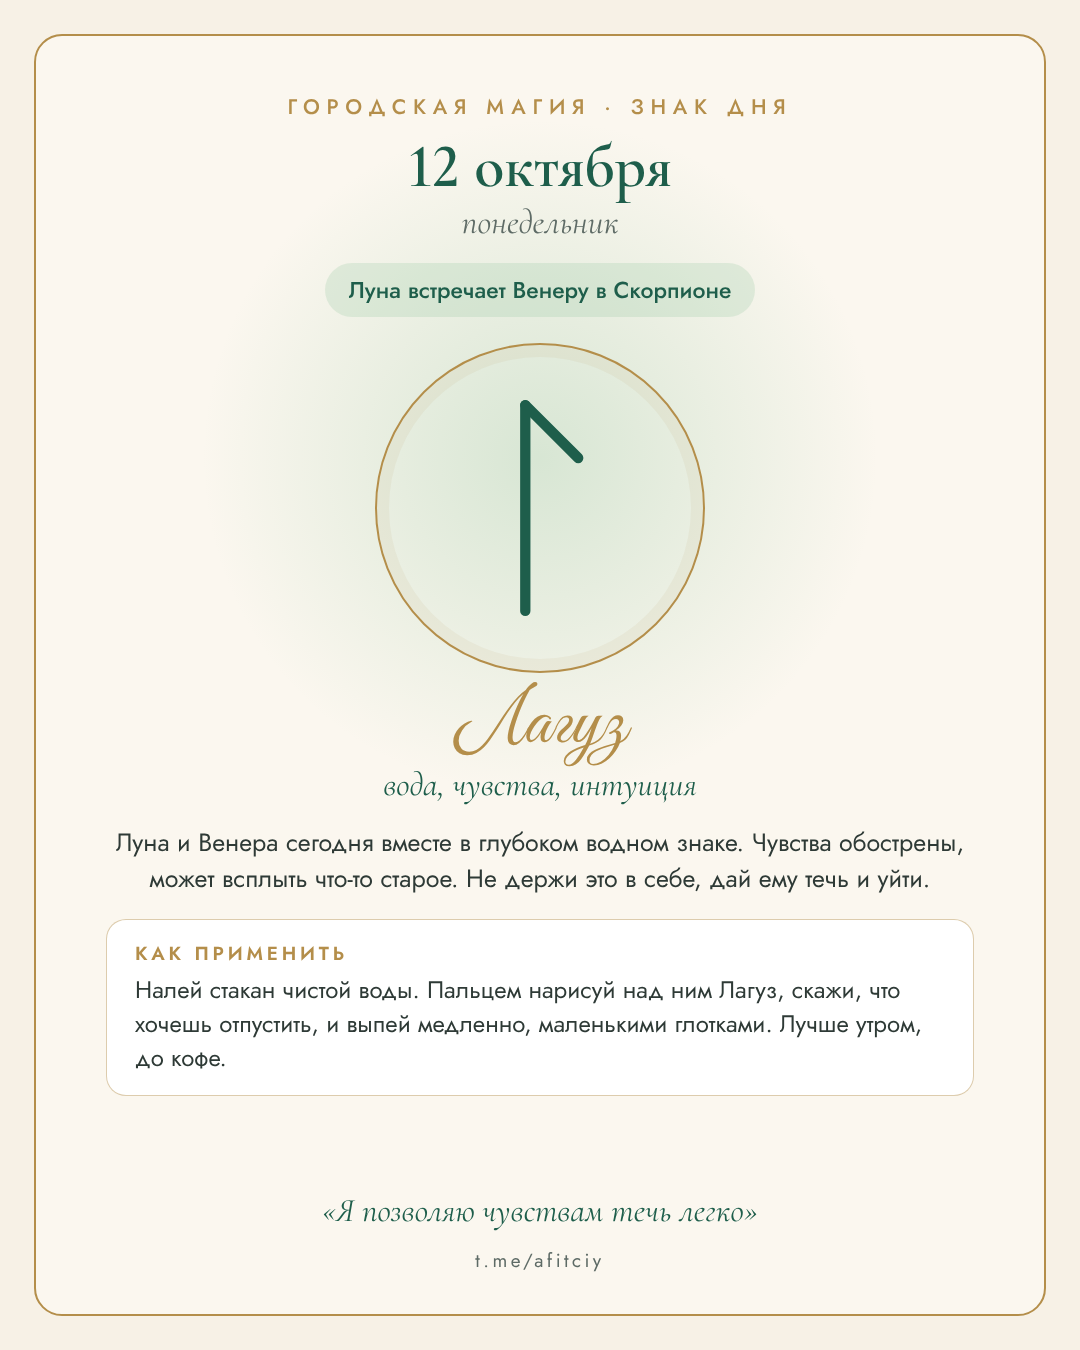
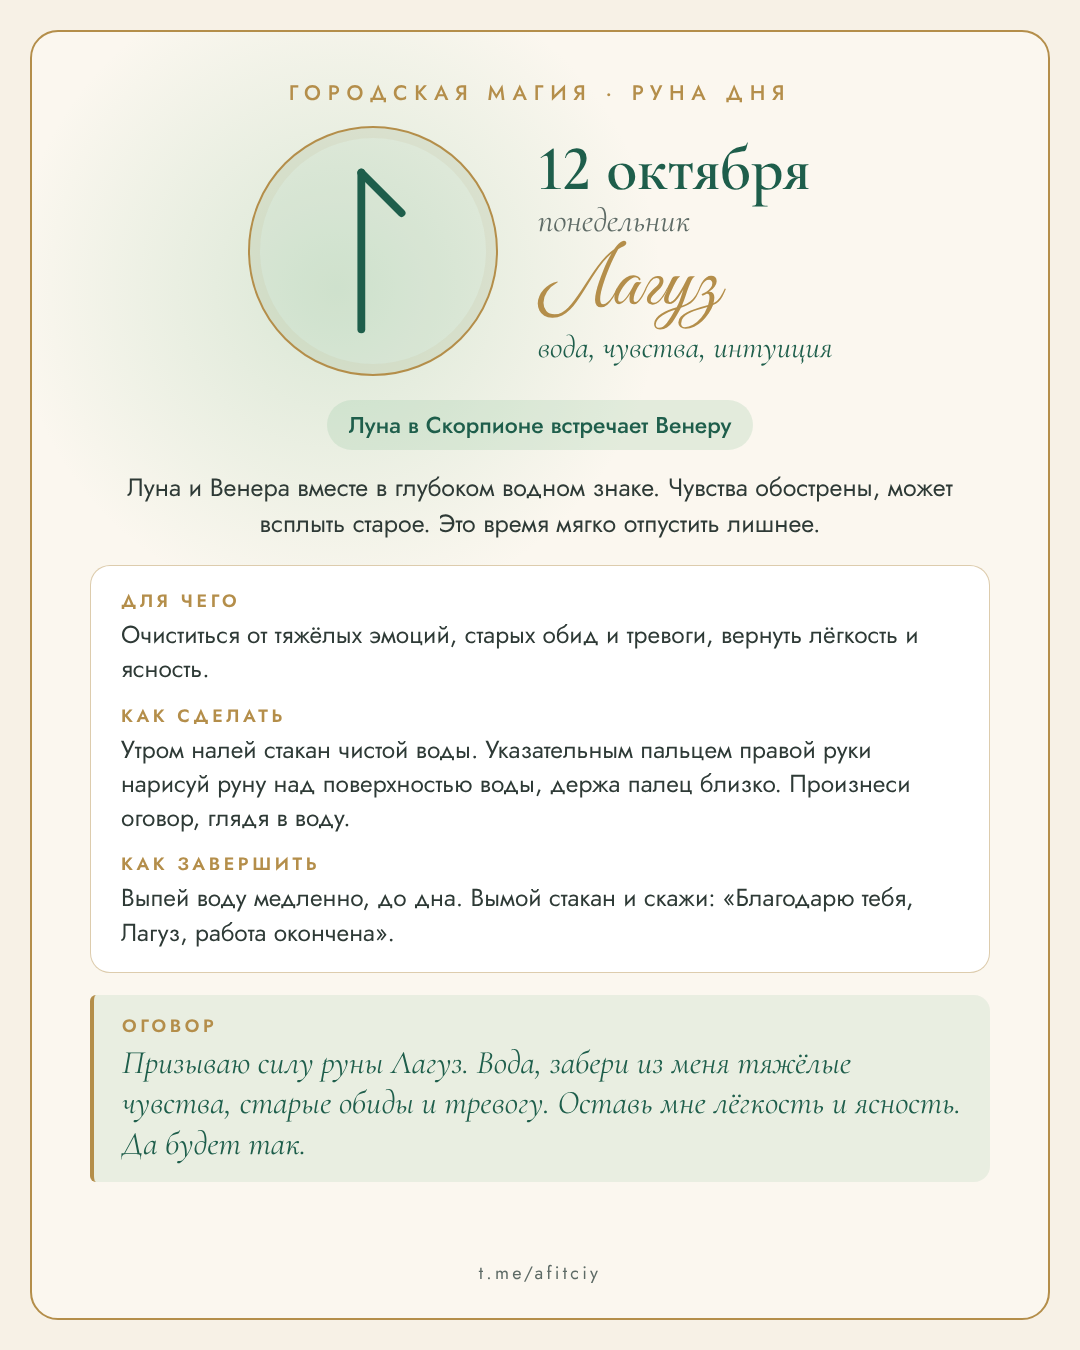
Руна дня: каждая карточка как мини-ритуал с оговором и завершением
Claude-Session: https://claude.ai/code/session_01CEseLf1VpQs1XHdpYd9CJA

diff --git a/daily/render.py b/daily/render.py
@@ -38,37 +38,42 @@ CSS = f"""
 :root{{--cream:#F7F1E6;--paper:#FBF7EF;--em:#1E5E4B;--gold:#B48E4A;--fresh:#8CC29A;--ink:#2E3A36;--muted:#5E6B66}}
 *{{margin:0;padding:0;box-sizing:border-box}}
 body{{font-variant-numeric:lining-nums;width:1080px;height:1350px;background:var(--cream);font-family:Jost;color:var(--ink);overflow:hidden}}
-.card{{position:absolute;inset:34px;border:2px solid var(--gold);border-radius:28px;background:
- radial-gradient(circle at 50% 33%, rgba(140,194,154,.32) 0, rgba(140,194,154,0) 34%), var(--paper);
- padding:56px 70px 40px;display:flex;flex-direction:column;align-items:center;text-align:center}}
+.card{{position:absolute;inset:30px;border:2px solid var(--gold);border-radius:28px;background:
+ radial-gradient(circle at 30% 20%, rgba(140,194,154,.30) 0, rgba(140,194,154,0) 26%), var(--paper);
+ padding:46px 58px 32px;display:flex;flex-direction:column;align-items:center;text-align:center}}
 .top{{font-size:21px;letter-spacing:.32em;color:var(--gold);font-weight:500}}
-.date{{font-family:Cor;font-weight:600;font-size:62px;color:var(--em);margin-top:14px;line-height:1}}
-.wd{{font-family:Cor;font-style:italic;font-size:34px;color:var(--muted);margin-top:4px}}
-.sky{{margin-top:20px;font-size:23px;color:var(--em);background:rgba(140,194,154,.22);padding:10px 24px;border-radius:40px;font-weight:500}}
-.ring{{margin-top:26px;width:330px;height:330px;border-radius:50%;border:2px solid var(--gold);display:flex;align-items:center;justify-content:center;
- box-shadow:0 0 0 12px rgba(180,142,74,.08) inset}}
-.name{{font-family:GV;font-size:76px;color:var(--gold);line-height:1;margin-top:14px}}
-.mean{{font-family:Cor;font-style:italic;font-size:33px;color:var(--em);margin-top:2px}}
-.txt{{font-size:25px;line-height:1.45;color:var(--ink);margin-top:20px;max-width:880px}}
-.how{{margin-top:22px;width:100%;text-align:left;background:#fff;border:1.5px solid rgba(180,142,74,.45);border-radius:20px;padding:20px 28px}}
-.how b{{display:block;font-size:19px;letter-spacing:.2em;color:var(--gold);font-weight:600;margin-bottom:6px}}
-.how p{{font-size:24px;line-height:1.42}}
-.ph{{font-family:Cor;font-style:italic;font-size:33px;color:var(--em);margin-top:auto;line-height:1.2}}
-.ft{{margin-top:16px;font-size:19px;letter-spacing:.18em;color:var(--muted)}}
+.head{{display:flex;align-items:center;gap:40px;margin-top:18px;width:100%;justify-content:center}}
+.ring{{width:250px;height:250px;flex:none;border-radius:50%;border:2px solid var(--gold);display:flex;align-items:center;justify-content:center;
+ box-shadow:0 0 0 10px rgba(180,142,74,.08) inset;background:rgba(140,194,154,.14)}}
+.hl{{text-align:left}}
+.date{{font-family:Cor;font-weight:600;font-size:64px;color:var(--em);line-height:1}}
+.wd{{font-family:Cor;font-style:italic;font-size:33px;color:var(--muted)}}
+.name{{font-family:GV;font-size:80px;color:var(--gold);line-height:1.05;margin-top:4px}}
+.mean{{font-family:Cor;font-style:italic;font-size:31px;color:var(--em)}}
+.sky{{margin-top:24px;font-size:23px;color:var(--em);background:rgba(140,194,154,.22);padding:8px 22px;border-radius:40px;font-weight:500}}
+.txt{{font-size:25px;line-height:1.42;margin-top:20px;max-width:900px}}
+.box{{margin-top:24px;width:100%;text-align:left;background:#fff;border:1.5px solid rgba(180,142,74,.45);border-radius:20px;padding:22px 30px}}
+.box b{{display:block;font-size:18px;letter-spacing:.2em;color:var(--gold);font-weight:600;margin:16px 0 4px}}
+.box b:first-child{{margin-top:0}}
+.box p{{font-size:24.5px;line-height:1.4}}
+.og{{margin-top:22px;width:100%;border-left:4px solid var(--gold);background:rgba(140,194,154,.16);border-radius:6px 16px 16px 6px;padding:18px 28px;text-align:left}}
+.og b{{display:block;font-size:18px;letter-spacing:.2em;color:var(--gold);font-weight:600;margin-bottom:4px}}
+.og p{{font-family:Cor;font-style:italic;font-size:33px;line-height:1.22;color:var(--em)}}
+.ft{{margin-top:auto;padding-top:10px;font-size:18px;letter-spacing:.18em;color:var(--muted)}}
 """
 
 def page(d):
     date = dt.date.fromisoformat(d["date"])
     e = html.escape
     return f"""<!doctype html><html><head><meta charset="utf-8"><style>{CSS}</style></head><body><div class="card">
-<div class="top">ГОРОДСКАЯ МАГИЯ · ЗНАК ДНЯ</div>
-<div class="date">{date.day} {MONTHS[date.month-1]}</div><div class="wd">{e(d['weekday'])}</div>
+<div class="top">ГОРОДСКАЯ МАГИЯ · РУНА ДНЯ</div>
+<div class="head"><div class="ring">{rune_svg(d['rune'], 190)}</div>
+<div class="hl"><div class="date">{date.day} {MONTHS[date.month-1]}</div><div class="wd">{e(d['weekday'])}</div>
+<div class="name">{e(d['rune_name'])}</div><div class="mean">{e(d['rune_meaning'])}</div></div></div>
 <div class="sky">{e(d['sky'])}</div>
-<div class="ring">{rune_svg(d['rune'], 250)}</div>
-<div class="name">{e(d['rune_name'])}</div><div class="mean">{e(d['rune_meaning'])}</div>
 <div class="txt">{e(d['about'])}</div>
-<div class="how"><b>КАК ПРИМЕНИТЬ</b><p>{e(d['how'])}</p></div>
-<div class="ph">«{e(d['phrase'])}»</div>
+<div class="box"><b>ДЛЯ ЧЕГО</b><p>{e(d['purpose'])}</p><b>КАК СДЕЛАТЬ</b><p>{e(d['how'])}</p><b>КАК ЗАВЕРШИТЬ</b><p>{e(d['finish'])}</p></div>
+<div class="og"><b>ОГОВОР</b><p>{e(d['ogovor'])}</p></div>
 <div class="ft">t.me/afitciy</div>
 </div></body></html>"""
 

diff --git a/daily/WEEKLY.md b/daily/WEEKLY.md
@@ -7,8 +7,9 @@
 1. `pip install --break-system-packages astronomy-engine playwright` (если нет), при необходимости `python3 -m playwright install chromium`.
 2. Посчитать небо на 7 дней с понедельника: `python3 daily/astro.py ГГГГ-ММ-ДД 7`.
    Опираться только на эти данные: фаза и знак Луны, ретроградность, точные аспекты (орб до 2–3°), события, `upcoming`.
-3. Написать `daily/week.json` (формат как в прошлой неделе): date, weekday, sky (до ~45 знаков), rune, rune_name,
-   rune_meaning, about (до ~230 знаков), how (до ~230 знаков), phrase (короткая), caption (до 1000 знаков).
+3. Написать `daily/week.json` (формат как в прошлой неделе): date, weekday, sky (до ~50 знаков), rune, rune_name,
+   rune_meaning, about (до ~170 знаков), purpose (для чего, до ~110), how (как сделать, до ~230),
+   finish (как завершить, до ~120), ogovor (оговор, до ~190), caption (до 1000 знаков).
 4. `python3 daily/render.py daily/week.json`. Если пишет «не влезает», сократить текст и перерисовать.
 5. Посмотреть картинки, закоммитить `daily/queue/` и `daily/week.json`, запушить в main.
 
@@ -21,9 +22,17 @@ fehu, uruz, ansuz, kenaz, gebo, wunjo, jera, sowilo, teiwaz, berkana, laguz, ing
 Плюс энергия и восстановление, когда небо напряжённое. Связь с днём недели: пн Луна, вт Марс, ср Меркурий,
 чт Юпитер, пт Венера, сб Сатурн, вс Солнце.
 
-## Как применить
-Конкретное действие на 2–5 минут: нарисовать на запястье, на зеркале, на дне кружки, над стаканом воды,
-на листочке в кошельке, над дверью. Плюс маленькое реальное действие. Не рисовать на купюрах.
+## Каждая карточка это маленький ритуал (требование Елены)
+Не «нарисуй и скажи себе три слова», а конкретика:
+- **Для чего**: понятная цель на день (притяжение внимания, женственность, энергия, деньги, переговоры, очищение).
+- **Как сделать**: где и когда рисовать и почему именно там. Пальцы по хиромантии: большой и холм Венеры у его основания
+  (любовь, чувственность), указательный Юпитер (уверенность, авторитет), средний Сатурн (дисциплина, защита),
+  безымянный Солнце (сияние, привлекательность, известность), мизинец Меркурий (слово, торговля, деньги).
+  Левая рука принимает (притянуть к себе), правая отдаёт и действует. Ещё: запястье, над стаканом воды (потом выпить),
+  листочек в кошельке, над дверью подсоленной водой. Не рисовать на купюрах.
+- **Оговор обязателен**, руна без оговора не работает. Формула: «Призываю силу руны …. [для чего, конкретно]. Да будет так.»
+- **Как завершить**: деактивация. На теле смыть вечером водой со словами «Благодарю тебя, …, работа окончена».
+  Листочек сжечь, вода выпивается до дна, знак на двери протереть через неделю. Всегда с благодарностью.
 
 ## Голос Елены (обязательно)
 - Обращение на «ты», «Красивая». Тепло, живо, с юмором и самоиронией. Эмодзи немного.
